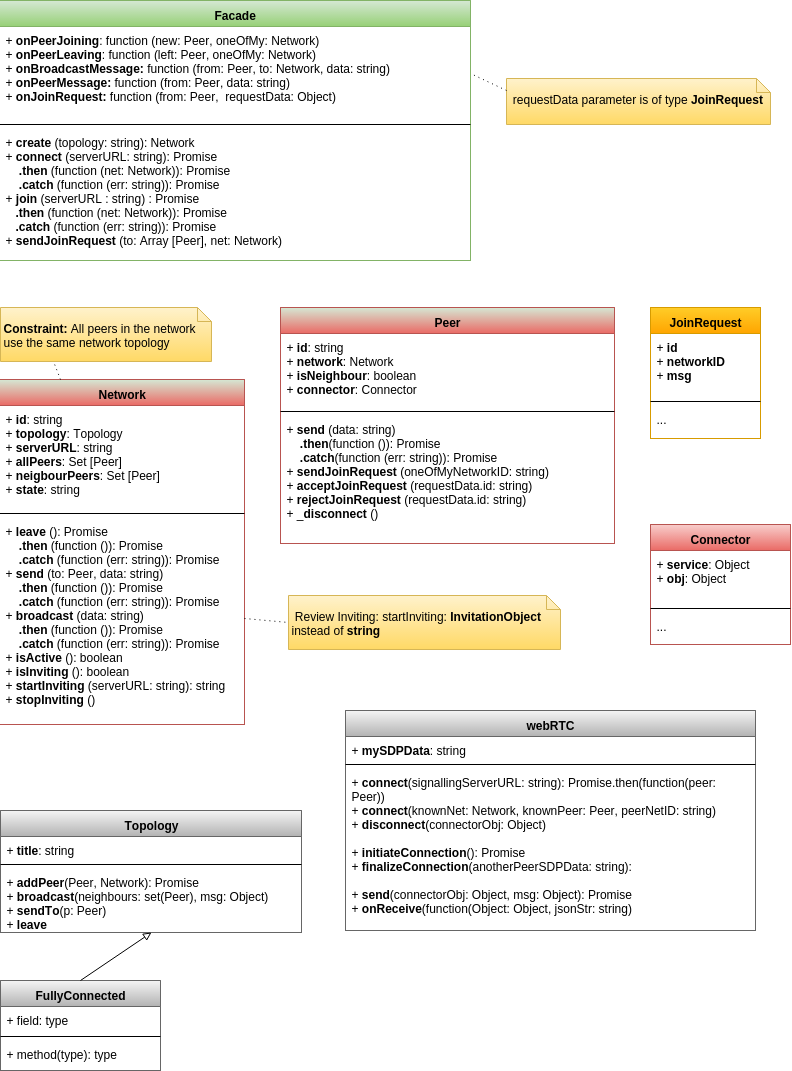
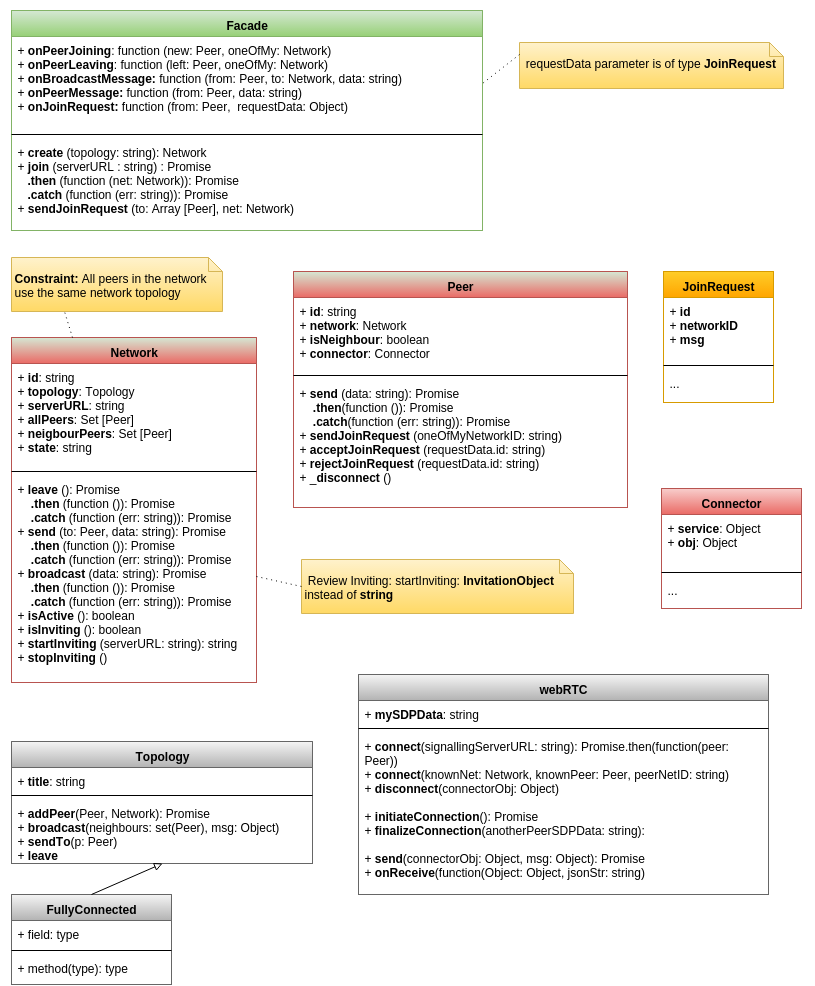
fix(README.md): fix API specification by removing connect method from facade
There were duplicate methods: join and connect.

diff --git a/README.md b/README.md
@@ -25,20 +25,12 @@ Abstract peer to peer client transport API. Implementations based on WebRTC and 
 
 - **onPeerJoining**: function (new: *Peer*, oneOfMy: *Network*)
   * When the *new* peer has joined *oneOfMy* network.
-
-
 - **onPeerLeaving**: function (left: *Peer*, oneOfMy: *Network*)
   * When the *left* peer has disconnected from *oneOfMy* network.
-
-
 - **onBroadcastMessage**: function (from: Peer, to: Network, data: string)
   * When a message has arrived from on the network (someone in the network sent a broadcast message).
-
-
 - **onPeerMessage**: function (from: *Peer*, data: *string*)
   * When some peer in the network has sent a message only to you.
-
-
 - **onJoinRequest**: function (from: *Peer*,  requestData: *Object*)
   * When some peer in the network has sent you a join request via network. This peer wants you to join one of his network with which you are not connected yet. (see ***Peer.acceptJoinRequest*** and ***Peer.rejectJoinRequest***).
 
@@ -46,20 +38,10 @@ Abstract peer to peer client transport API. Implementations based on WebRTC and 
 
 - **create** (topology: *string*): *Network*
   * Create a new peer to peer network.
-
-
-- **connect** (serverURL: *string*): *Promise*
-- **.then** (function (net: *Network*)): *Promise*
-- **.catch** (function (err: *string*)): *Promise*
-  * Connect to a network with server help (LINK...)
-
-
 - **join** (serverURL: *string*): *Promise*
-- **.then** (function (net: *Network*)): *Promise*
-- **.catch** (function (err: *string*)): *Promise*
+- .then (function (net: *Network*)): *Promise*
+- .catch (function (err: *string*)): *Promise*
   * Join network with server help. *serverURL* is obtained from a peer which started inviting (see *Network.startInviting*).
-
-
 - **sendJoinRequest** (to: *Array [Peer]*, oneOfMy: *Network*)
   * Send join request message to peers via network to ask them to join *oneOfMy* network.
 
@@ -67,47 +49,33 @@ ___
 ### Network
 
 - **leave** (): *Promise*
-- **.then** (function ()): *Promise*
-- **.catch** (function (err: *string*)): *Promise*
+- .then (function ()): *Promise*
+- .catch (function (err: *string*)): *Promise*
   * Disconnect from this network.
-
-
-- **send** (to: *Peer*, data: *string*)
-- **.then** (function ()): *Promise*
-- **.catch** (function (err: *string*)): *Promise*
+- **send** (to: *Peer*, data: *string*): *Promise*
+- .then (function ()): *Promise*
+- .catch (function (err: *string*)): *Promise*
   * Send a message to some peer in this network.
-
-
-- **broadcast** (data: *string*)
-- **.then** (function ()): *Promise*
-- **.catch** (function (err: *string*)): *Promise*
+- **broadcast** (data: *string*): *Promise
+- .then (function ()): *Promise*
+- .catch (function (err: *string*)): *Promise*
   * Send broadcast message to this network.
-
-
 - **startInviting** (serverURL: *string*): *string*
   * Start inviting people to this network.
-
-
 - **stopInviting** ()
   * Stop inviting people to this network.
 
 ___
 ### Peer
 
-- **send** (data: *string*)
-- **.then** (function ()): *Promise*
-- **.catch** (function (err: *string*)): *Promise*
+- **send** (data: *string*): *Promise*
+- .then (function ()): *Promise*  
+- .catch (function (err: *string*)): *Promise*
   * Send message to this peer via network.
-
-
 - **sendJoinRequest** (oneOfMy: Network)
   * Send join request message to this peer via network to ask him to join *oneOfMy* network.
-
-
 - **acceptJoinRequest** (requestData.id: *string*)
   * Accept join request received from this peer which has been sent by him with ***sendJoinRequest*** method.
-
-
 - **rejectJoinRequest** (requestData.id: *string*)
   * Reject join request received from this peer which has been sent by him with ***sendJoinRequest*** method.
 
